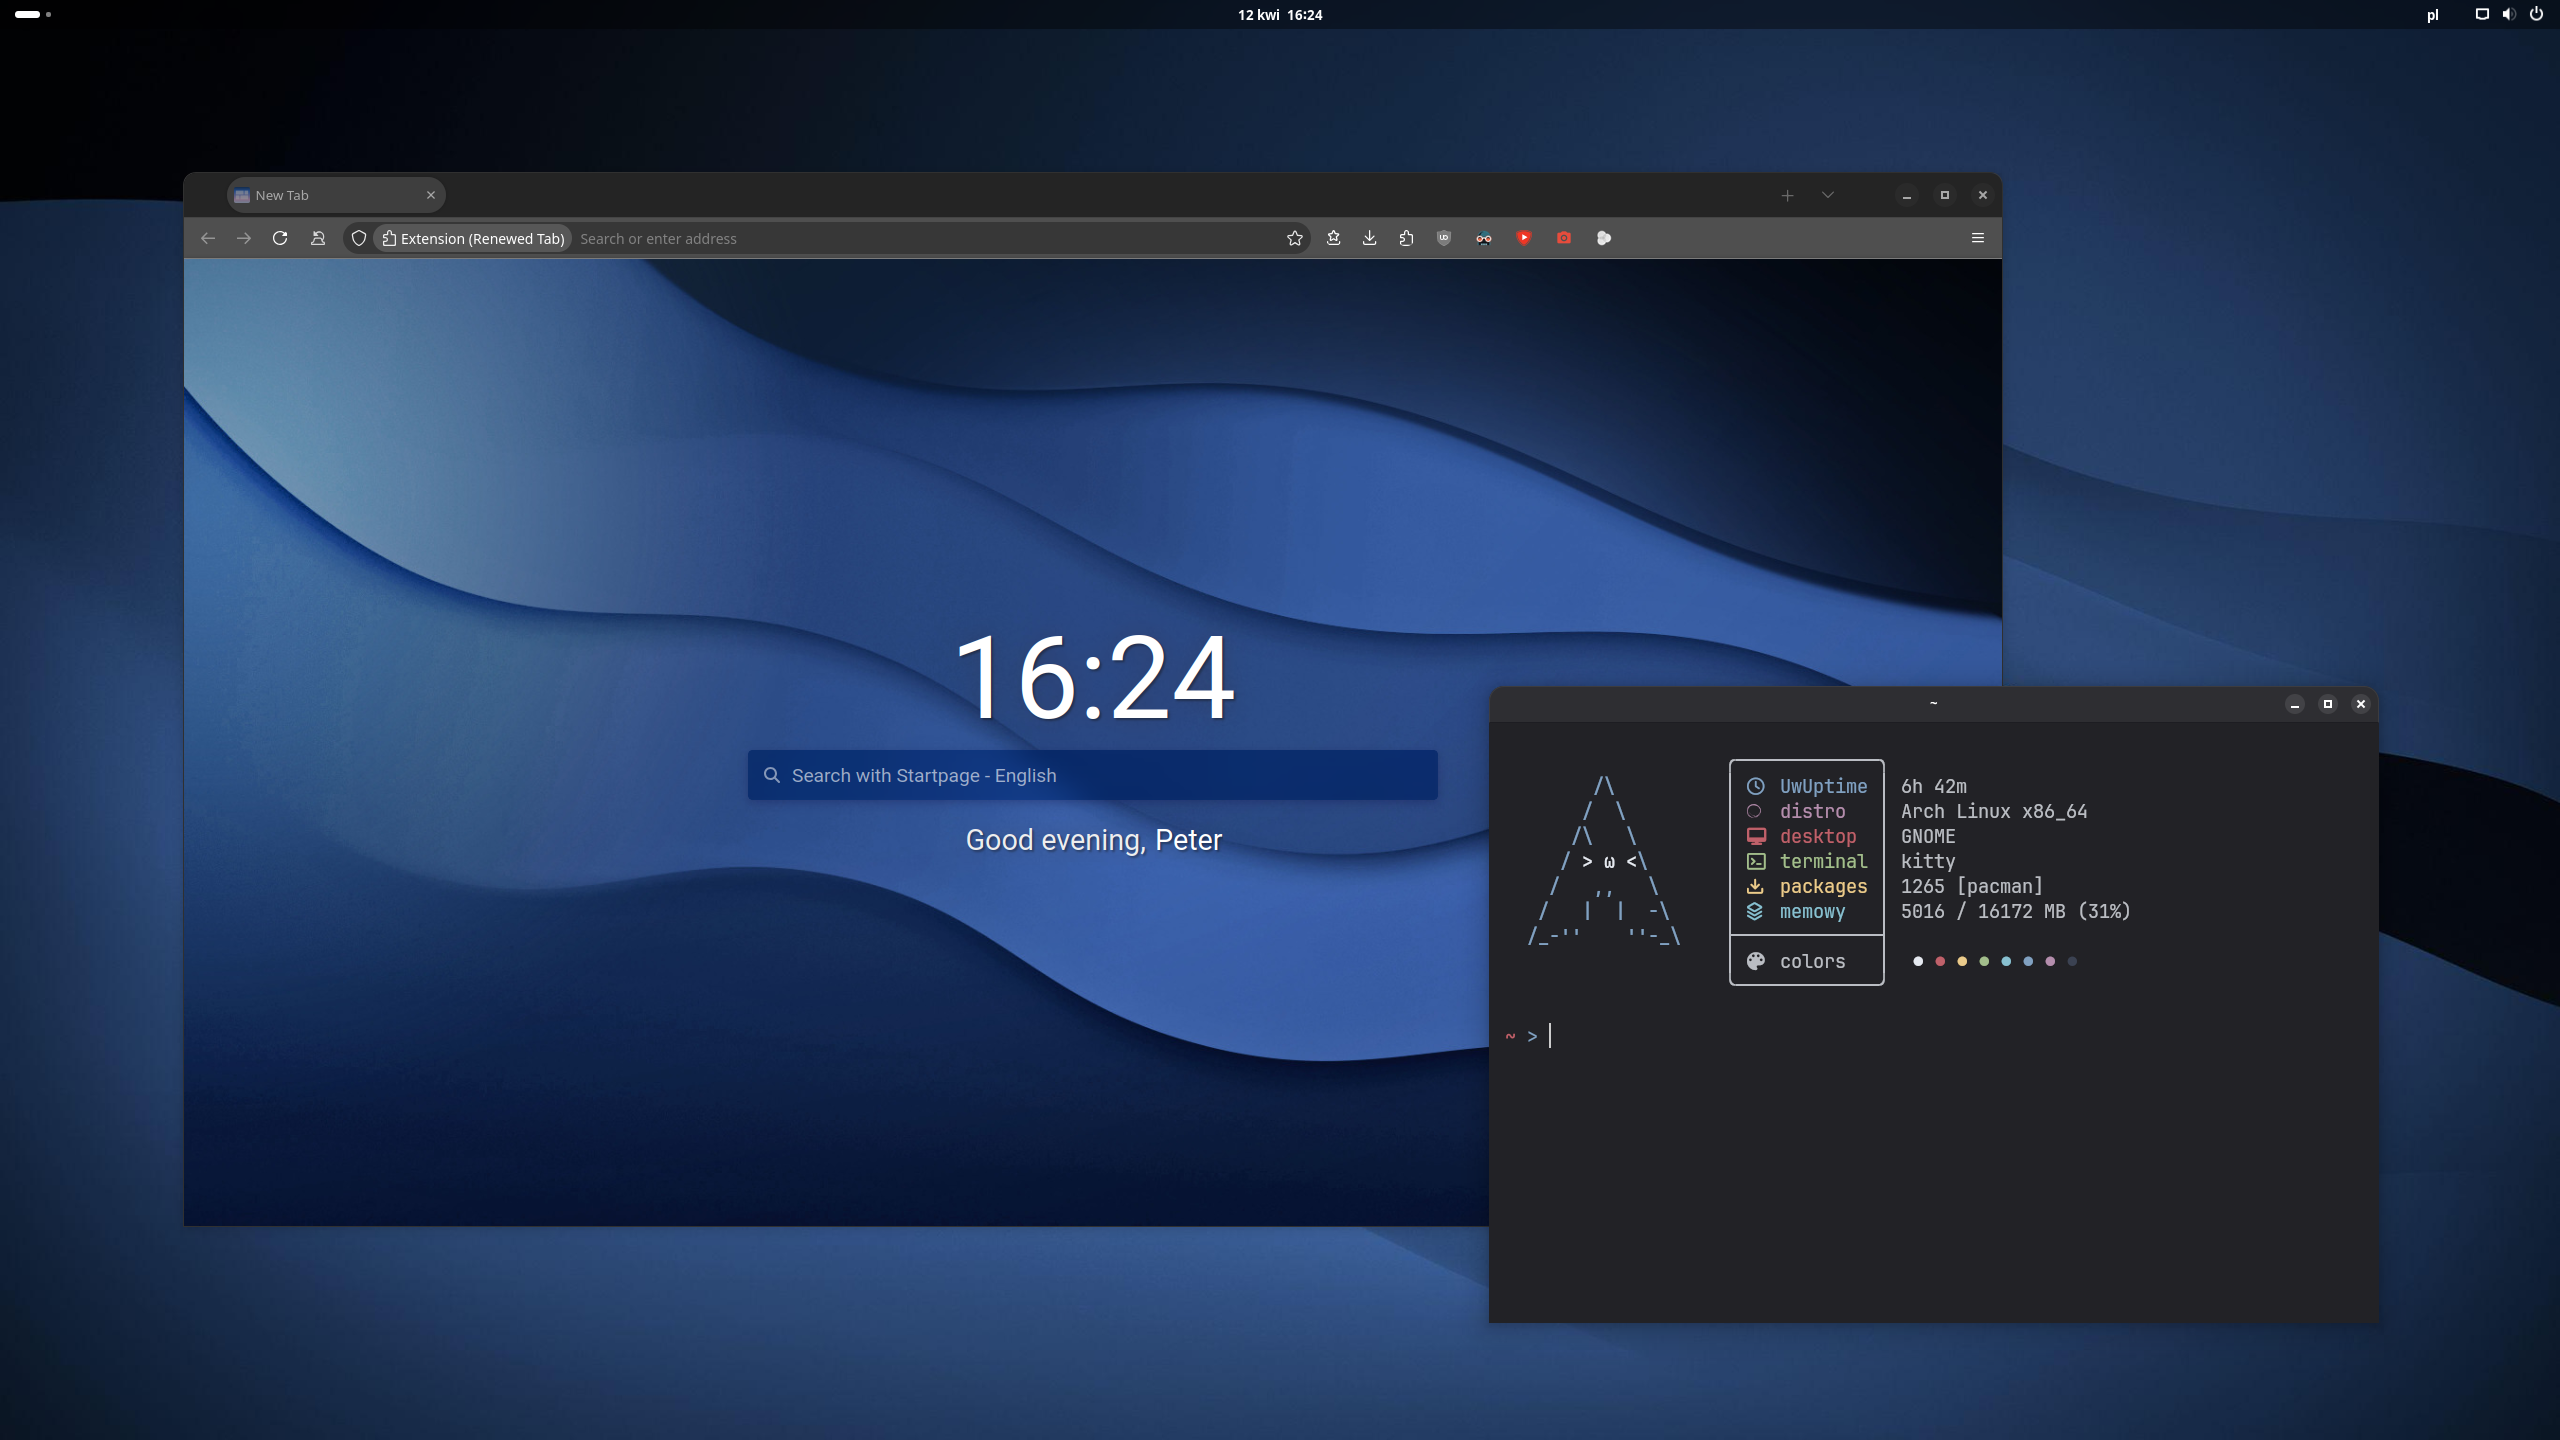
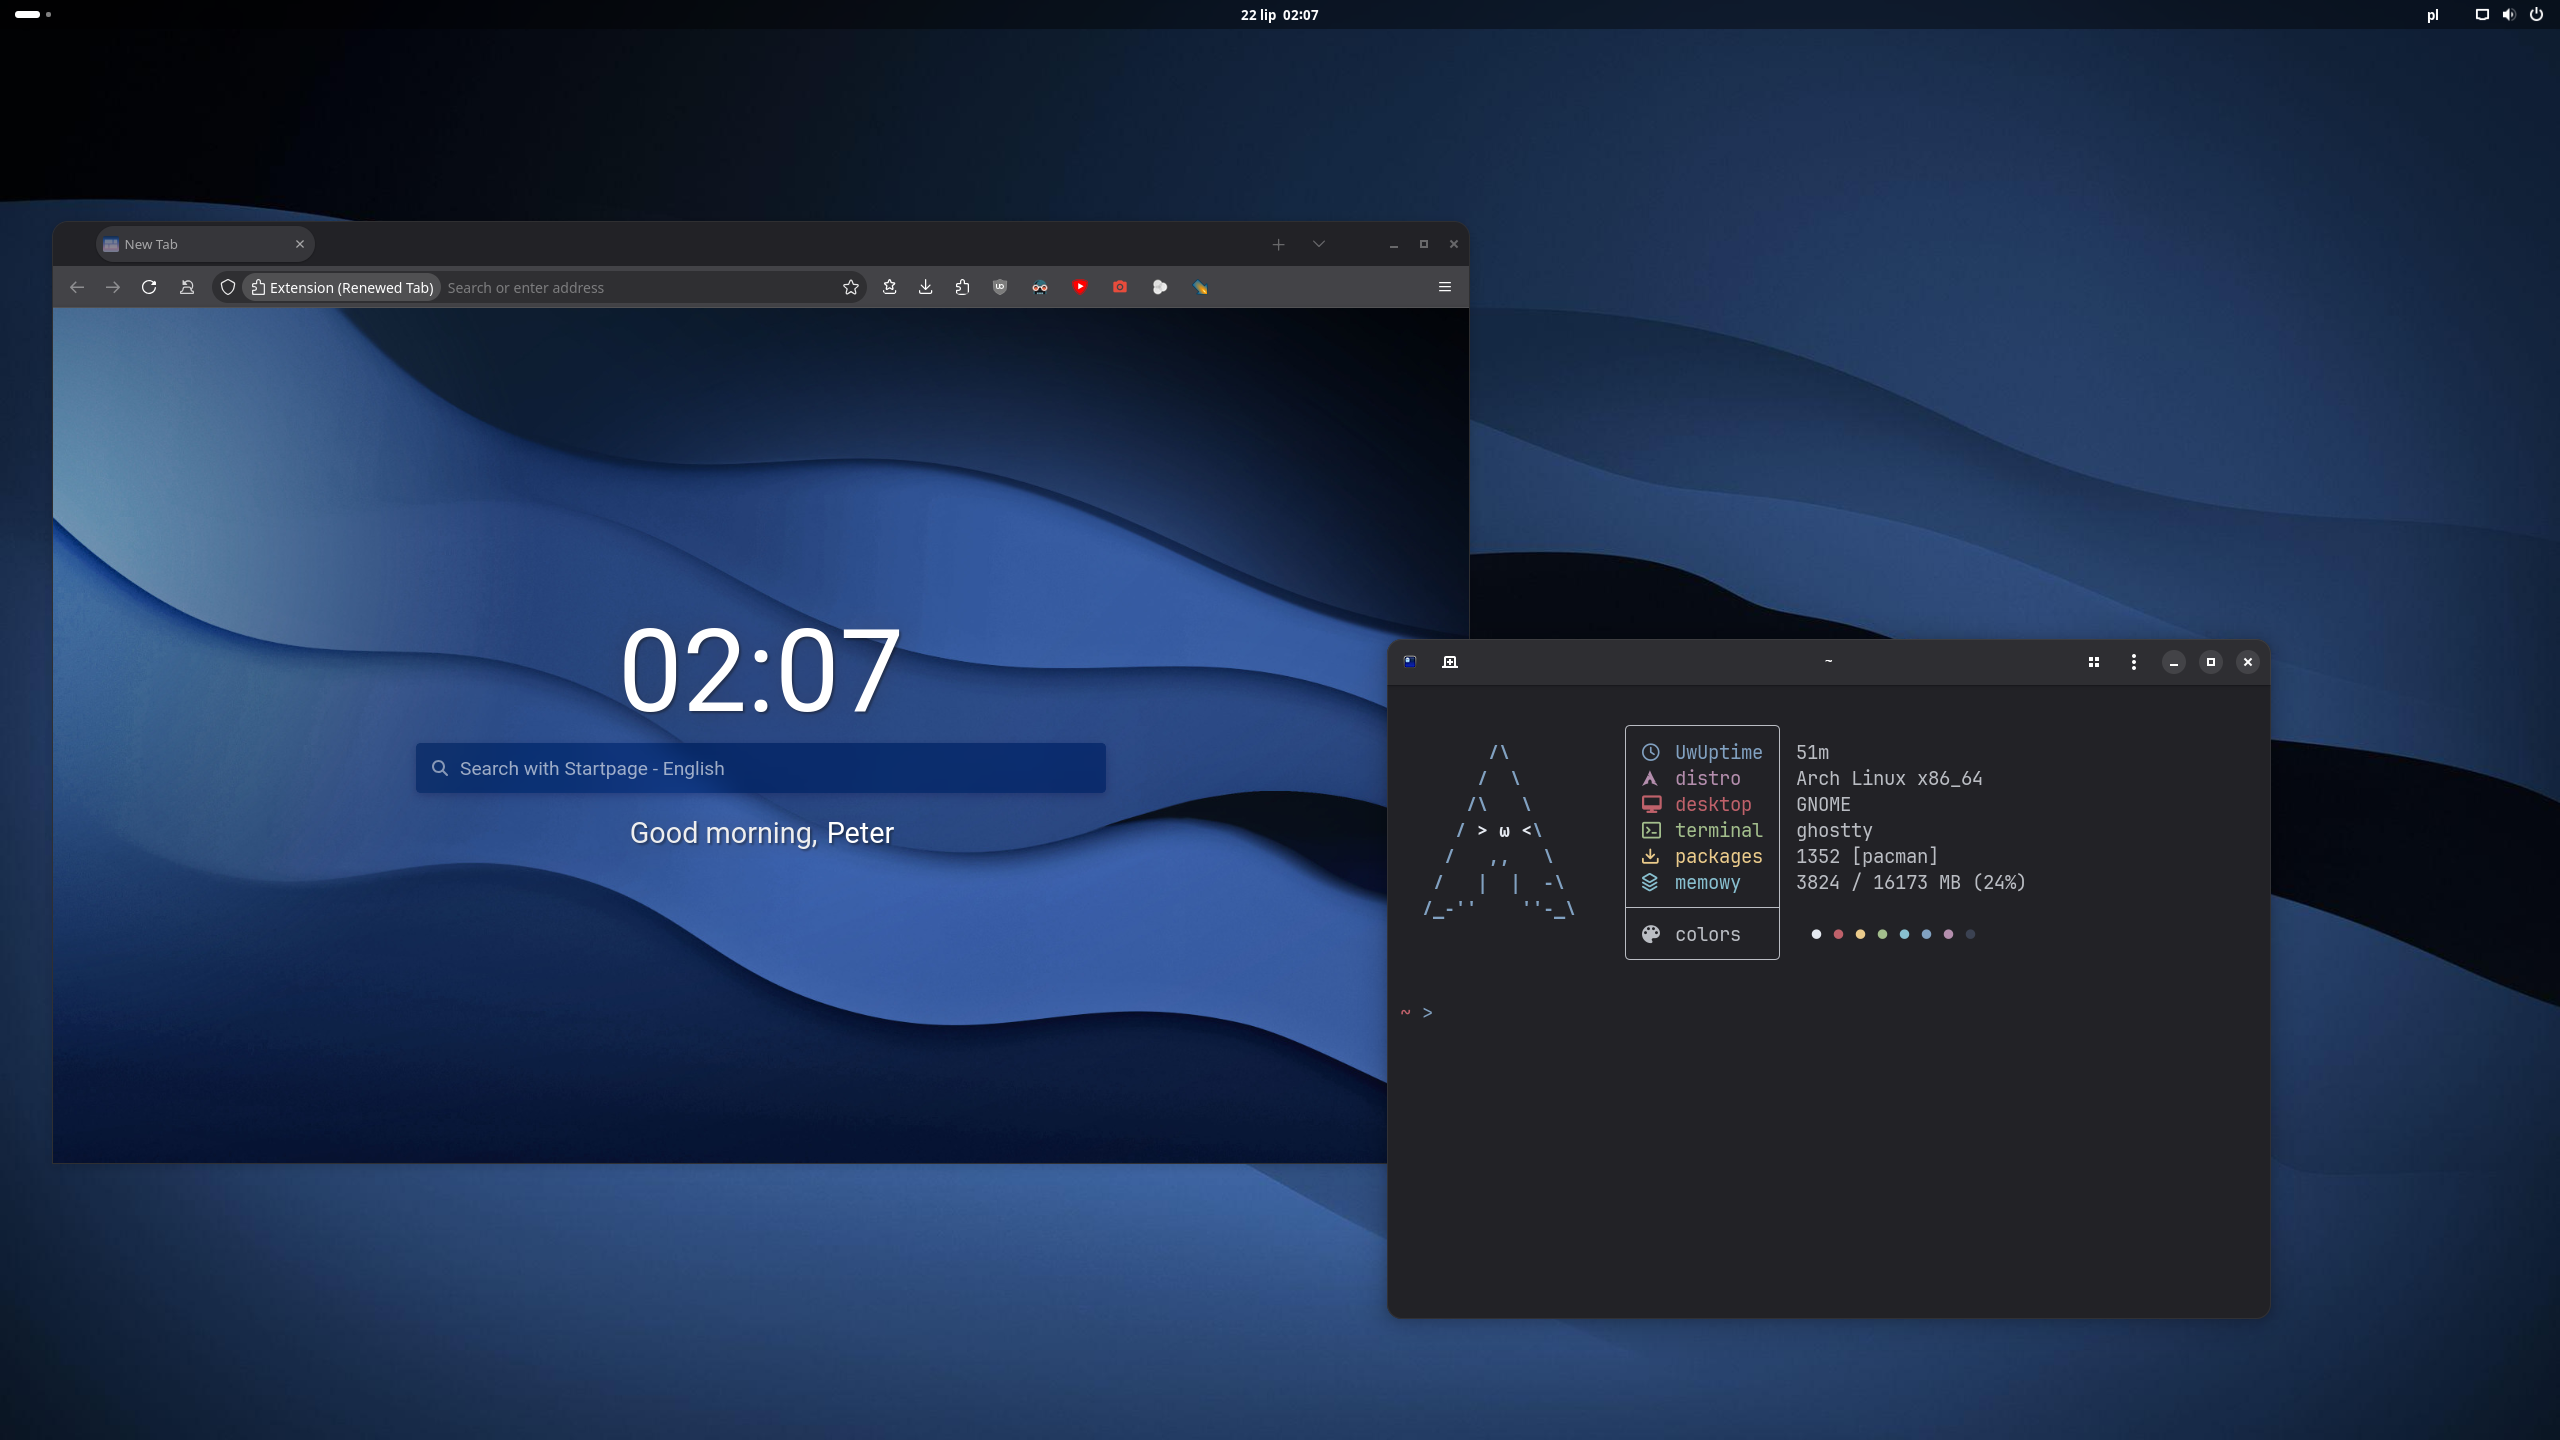
migration to ghostty

diff --git a/README.md b/README.md
@@ -8,18 +8,11 @@ My personal gnome config
 
 ## Installation
 
-#### 1. Install neovim, gnome tweaks, firefox, kitty, eza, git, JetbrainsMono Nerd Font catnap and adw-gtk3
-
-#### For Fedara
-```bash
-sudo dnf install neovim gnome-tweaks firefox kitty eza git adw-gtk3-theme
-```
-[Build catnap from source](https://catnap-fetch.xyz/)  
-[Install JetBrainsMono Nerd Font](https://github.com/ryanoasis/nerd-fonts)
+#### 1. Install dependencies
 
 #### For Arch
 ```bash
-sudo pacman -S neovim gnome-tweaks firefox kitty eza git nerd-fonts adw-gtk-theme
+sudo pacman -S neovim gnome-tweaks firefox ghostty eza git nerd-fonts adw-gtk-theme
 # Select JetbrainsMono Nerd Font
 paru -S catnap-git
 paru -S kew #optional
@@ -40,6 +33,7 @@ Install following browser extensions:
 - [Return Youtube Dislike](https://addons.mozilla.org/en-US/firefox/addon/return-youtube-dislikes/)
 - [Reddit Enhancer](https://addons.mozilla.org/en-US/firefox/addon/reddit-enhancer/)
 - [Renewed Tab](https://addons.mozilla.org/en-US/firefox/addon/renewed-tab/)
+- [DownThemAll!](https://addons.mozilla.org/en-US/firefox/addon/downthemall/)
 
 #### 3. Install required gnome extensions
 
@@ -60,7 +54,7 @@ cd dots_GNOME
 chmod +x *.sh
 ./install.sh
 ```
-- also install [this](https://github.com/lassekongo83/adw-colors/blob/main/accent-color-change/README.md) script (set color to 9)
+- also run [this](https://github.com/lassekongo83/adw-colors/blob/main/accent-color-change/README.md) script (set color to 9)
 
 #### 5. Install custom firefox css
 
@@ -75,4 +69,3 @@ chmod +x *.sh
 [Install NvChad](https://nvchad.com/docs/quickstart/install)
 
 #### 8. Enjoy :)
-
